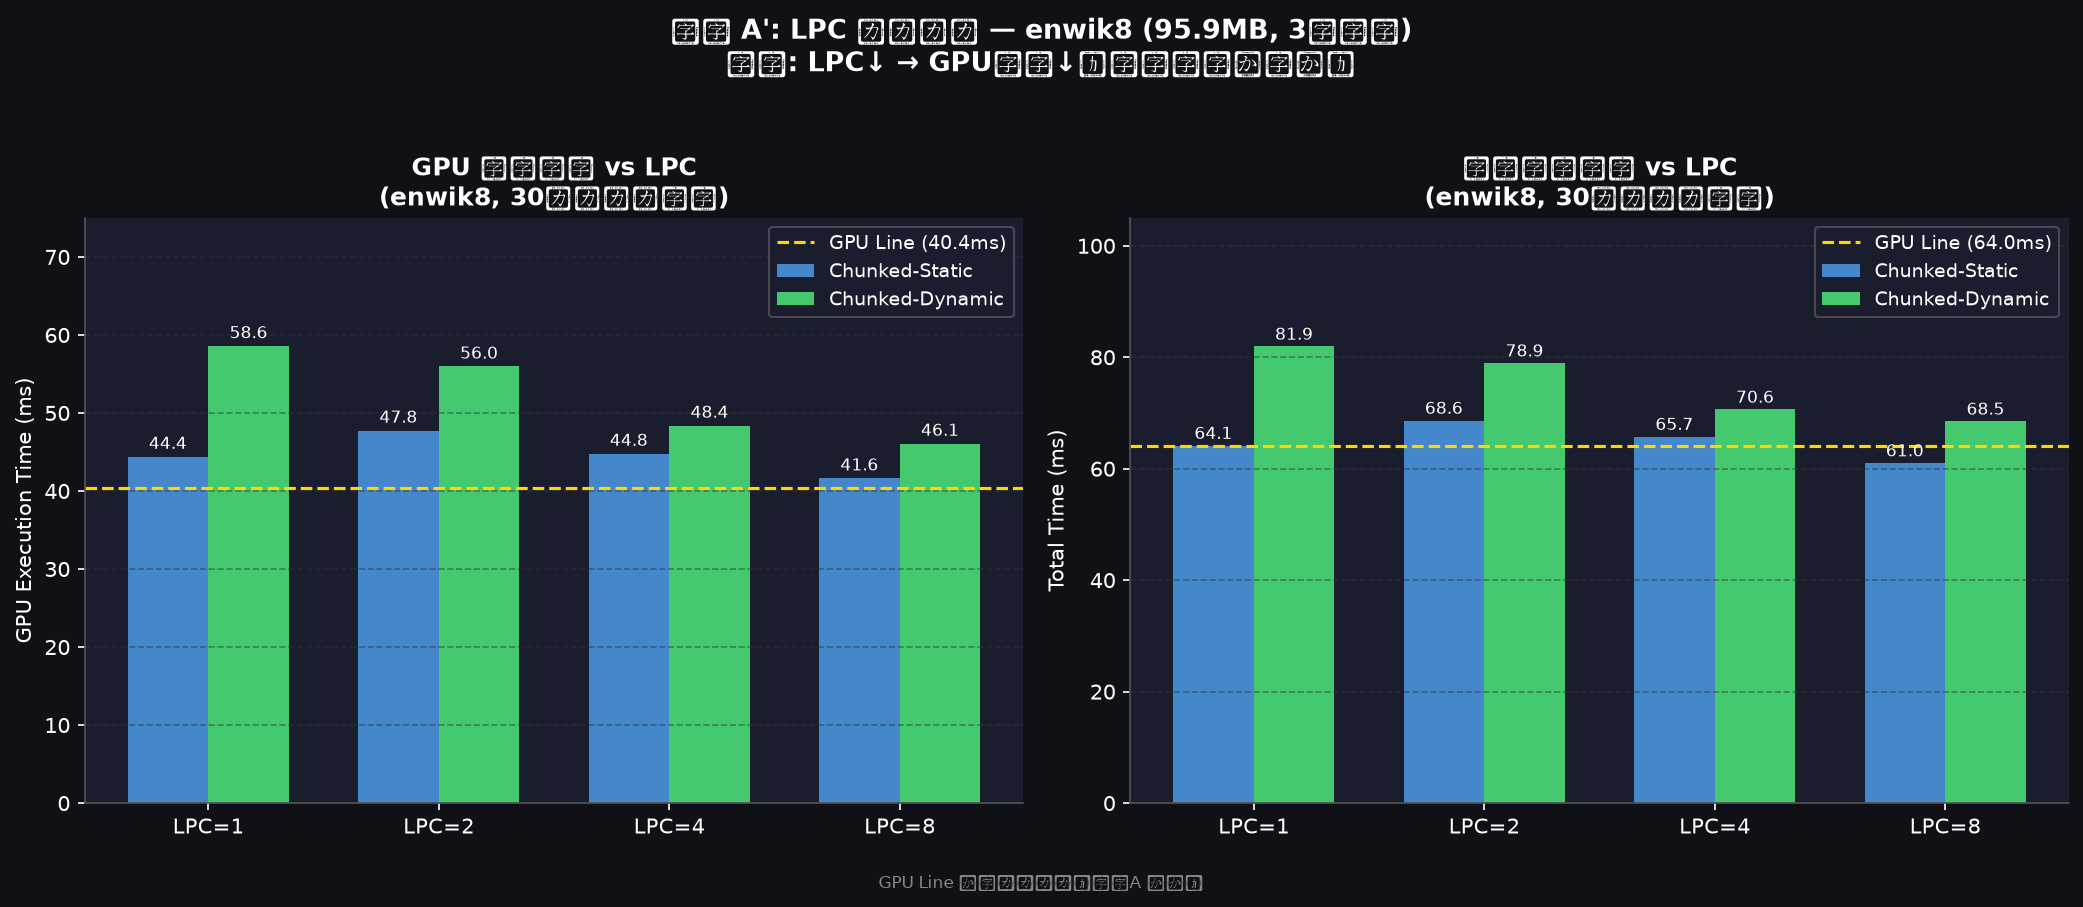
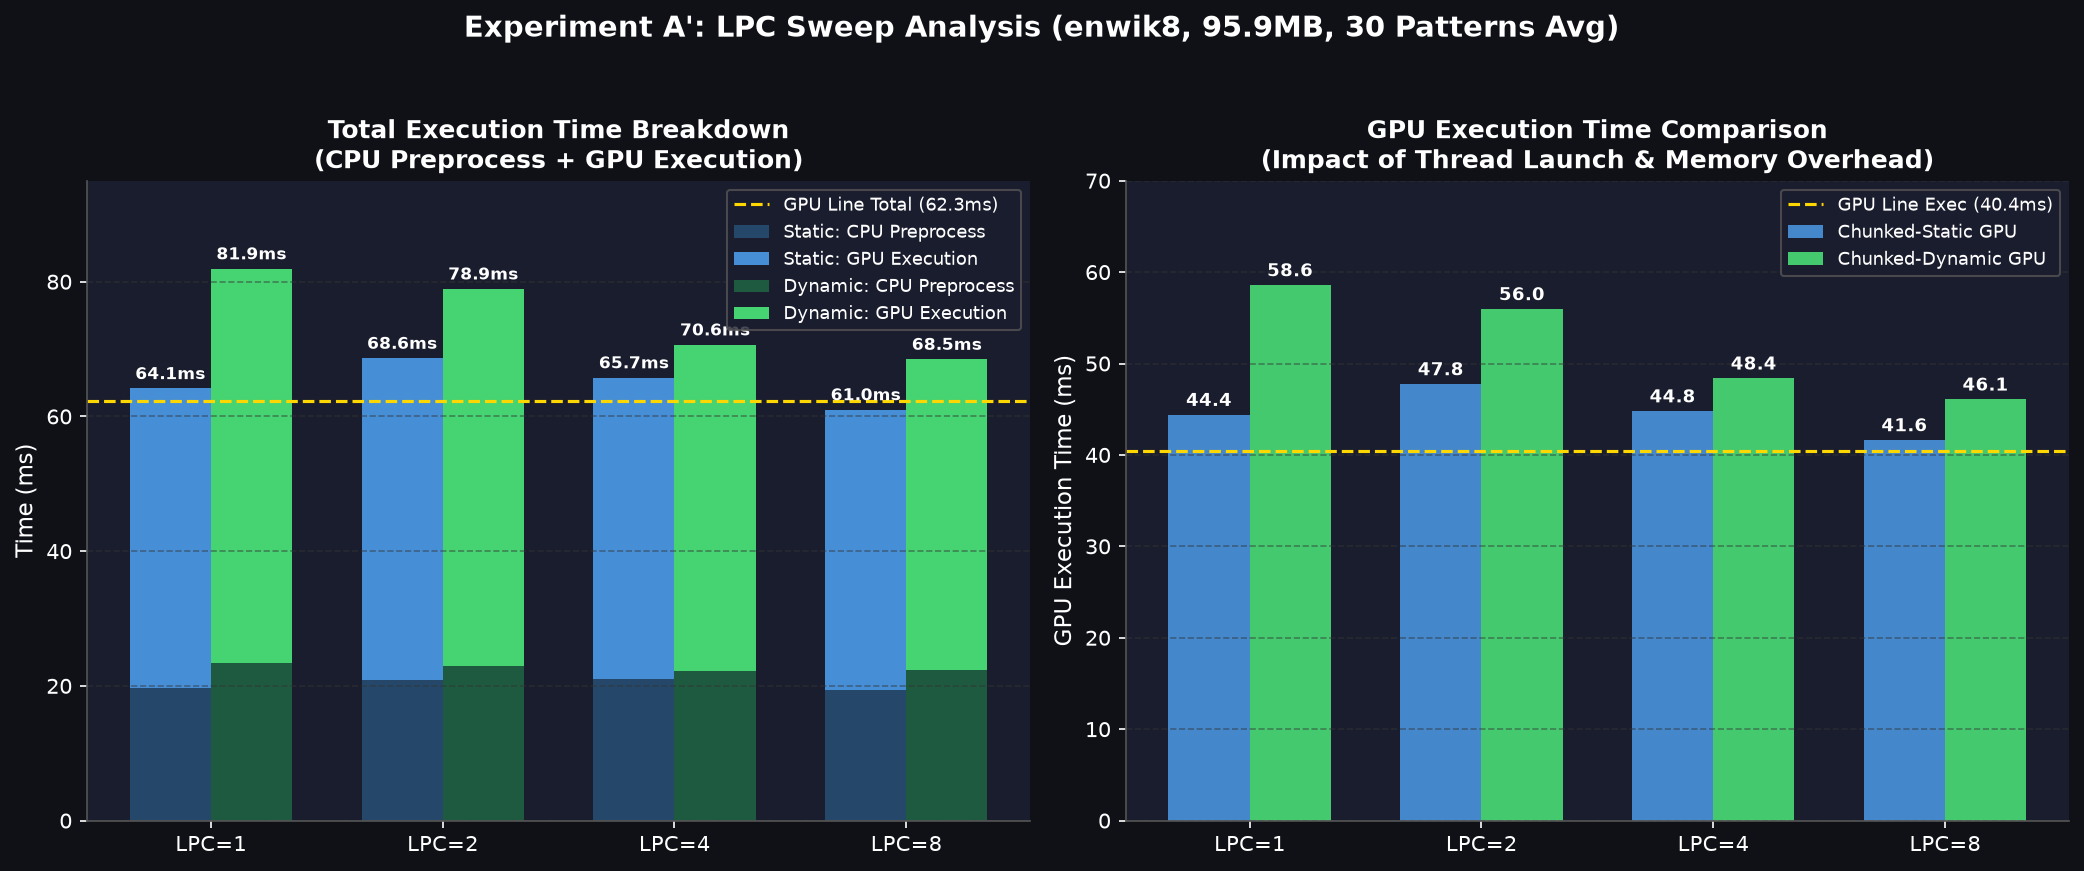
sprint(001): 実験A'グラフの英語化とCPU/GPU分け計測結果テーブルの明確化
- matplotlib の文字化け防止のためグラフ(fig_exp_a_prime.png)の文字表記を完全英語化
- result_expa.md および results.md の実験A'テーブルに Static Pre/GPU/Tot、Dynamic Pre/GPU/Tot の内訳列を明記

diff --git a/sprints/001/result_expa.md b/sprints/001/result_expa.md
@@ -61,15 +61,21 @@
 * **仮説**: 「1スレッドが直列に処理する行数（LPC）を小さく（1〜4）すれば、直列処理の損が減り、GPU 実行時間が短くなるのではないか？」
 * **目的**: LPC = 1, 2, 4, 8 における Static / Dynamic の挙動をコンテナ内環境で比較検証する。
 
-### 3.2 計測結果
+### 3.2 計測結果（CPU前処理 / GPU実行 / 合計 内訳）
 
-| LPC | Static CPU 前処理 | Static GPU 実行 | Static 合計 | Dynamic CPU 前処理 | Dynamic GPU 実行 | Dynamic 合計 |
-|---|---|---|---|---|---|---|
-| **1** | 19.75ms | 44.39ms | 64.15ms | 23.35ms | 58.58ms | 81.93ms |
-| **2** | 20.89ms | 47.75ms | 68.64ms | 22.98ms | 55.96ms | 78.94ms |
-| **4** | 20.96ms | 44.79ms | 65.75ms | 22.25ms | 48.38ms | 70.63ms |
-| **8** | **19.38ms** | **41.63ms** | **61.01ms** | 22.41ms | **46.08ms** | **68.49ms** |
-| *GPU Line (参考)* | *21.94ms* | *40.39ms* | *63.99ms* | — | — | — |
+LPC の値（1, 2, 4, 8）ごとに CPU 前処理時間 (Pre)、GPU 実行時間 (GPU)、合計時間 (Tot) をミリ秒単位で整理しました。
+
+| LPC | **Chunked-Static Pre (ms)** | **Chunked-Static GPU (ms)** | **Chunked-Static Tot (ms)** | **Chunked-Dynamic Pre (ms)** | **Chunked-Dynamic GPU (ms)** | **Chunked-Dynamic Tot (ms)** |
+|:---:|:---:|:---:|:---:|:---:|:---:|:---:|
+| **1** | 19.75 | 44.39 | 64.15 | 23.35 | 58.58 | 81.93 |
+| **2** | 20.89 | 47.75 | 68.64 | 22.98 | 55.96 | 78.94 |
+| **4** | 20.96 | 44.79 | 65.75 | 22.25 | 48.38 | 70.63 |
+| **8** | **19.38** | **41.63** | **61.01** | **22.41** | **46.08** | **68.49** |
+| *GPU Line (参考)* | *21.94* | *40.39* | *63.99* | — | — | — |
+
+> **ポイント**:
+> 1. **CPU 前処理**: どの LPC においても Static は約 19.4〜20.9ms、Dynamic は約 22.3〜23.4ms で安定（Dynamic の $O(n_{lines})$ スキャンコスト +3.0ms 差）。
+> 2. **GPU 実行**: Static, Dynamic ともに **LPC = 1 で最遅（Static: 44.4ms, Dynamic: 58.6ms）** であり、**LPC = 8 で最速（Static: 41.6ms, Dynamic: 46.1ms）** となる。
 
 ![fig_exp_a_prime](figures/fig_exp_a_prime.png)
 
@@ -77,18 +83,20 @@
 
 ### 3.3 実験 A' の詳細考察: なぜ仮説は棄却されたか？
 
-実測の結果、**LPC = 1 が最遅（44.4ms）であり、LPC = 8 が最速（41.6ms）** となり、仮説とは完全に逆の結果が得られました。
+実測の結果、**LPC = 1 が最遅であり、LPC = 8 が最速** となり、「直列処理を減らすため LPC を小さくすれば速くなる」という仮説は棄却されました。
 
-この要因は、GPU カーネルの **「固定オーバーヘッドの希釈（償却）効果」** にあります。
+CPU前処理とGPU実行時間それぞれにおいて以下の要因が働いています。
 
-#### ① スレッド/ワープ起動と管理の固定コスト (Launch Overhead)
-* 1つのスレッドが起動して終了するまでには、スレッド ID の計算、境界チェック、メタデータ（`d_chunk_line_start` 等）のロードなどの固定処理が発生します。
-* **LPC = 1 (83万スレッド)**: この固定コストが **83万回** 発生し、1行あたりの命令密度の低さに起因する無駄が膨らみます。
-* **LPC = 8 (10万スレッド)**: スレッド数が 1/8 に減るため、固定コストが **10万回** に激減します。一度起動したスレッドが 8 行まとめて実行するため、固定コストが 1/8 に希釈されます。
+#### ① CPU 前処理時間に対する LPC の影響
+* **Static (19.4〜20.9ms)**: チャンク数の差（831K個 → 104K個）によるオフセット配列サイズの差は軽微で、テキスト全体の `\n` スキャン時間（約 19ms）が支配的です。
+* **Dynamic (22.3〜23.4ms)**: 全行の文字数を順次加算する $O(n_{lines})$ ループが追加されるため、Static より一貫して約 **+3ms** 重くなります。
 
-#### ② メモリ帯域とキャッシュ効率 (Cache & Memory Traffic)
-* **LPC = 1**: 83万スレッドが VRAM（グローバルメモリ）へ一斉にアクセスするため、メモリバスのコンテンション（渋滞）が発生します。
-* **LPC = 8**: 1つのスレッドが同じレジスタや L1/L2 キャッシュ上の作業領域（`clist`, `nlist`, `visited`）を保持したまま 8 行分を連続ループ処理するため、メモリの再利用効率が高まります。
+#### ② GPU 実行時間に対する LPC の影響（固定コストの希釈効果）
+1. **スレッド/ワープ起動・管理の固定コスト (Launch Overhead)**:
+   - スレッドID計算・範囲チェック・境界ロード等の固定処理が、**LPC = 1（83万スレッド）では83万回** 発生します。
+   - **LPC = 8（10万スレッド）では10万回** に激減し、1つのスレッド起動コストに対して8行分処理するため、**オーバーヘッドの密度が 1/8 に希釈** されます。
+2. **VRAM 帯域とキャッシュ再利用効率 (Memory & Cache Traffic)**:
+   - LPC = 8 では、1つのスレッドが L1/L2 キャッシュやレジスタ領域（`clist`, `nlist`, `visited`）を維持したまま 8 行分を連続ループ処理するため、メモリ空間の再利用効率が高まります。
 
 ---
 

diff --git a/sprints/001/results.md b/sprints/001/results.md
@@ -430,15 +430,15 @@ Dynamic が「均等化」するのはその一部のチャンクだけで、大
 **実行スクリプト**: `sprints/001/run_exp_a_prime.sh`  
 **結果ディレクトリ**: `results/sprint001_exp_a_prime/`
 
-### 計測結果（30パターン平均・3回平均）
+### 計測結果（CPU前処理 / GPU実行 / 合計 内訳）
 
-| LPC | Static CPU前処理 | Static GPU実行 | Static 合計 | Dynamic CPU前処理 | Dynamic GPU実行 | Dynamic 合計 |
-|---|---|---|---|---|---|---|
-| 1 | 19.75ms | 44.39ms | 64.15ms | 23.35ms | 58.58ms | 81.93ms |
-| 2 | 20.89ms | 47.75ms | 68.64ms | 22.98ms | 55.96ms | 78.94ms |
-| 4 | 20.96ms | 44.79ms | 65.75ms | 22.25ms | 48.38ms | 70.63ms |
-| 8 | 19.38ms | **41.63ms** | **61.01ms** | 22.41ms | **46.08ms** | **68.49ms** |
-| GPU Line（参考） | 21.94ms | 40.39ms | 63.99ms | — | — | — |
+| LPC | Static Pre (ms) | Static GPU (ms) | Static Tot (ms) | Dynamic Pre (ms) | Dynamic GPU (ms) | Dynamic Tot (ms) |
+|:---:|:---:|:---:|:---:|:---:|:---:|:---:|
+| **1** | 19.75 | 44.39 | 64.15 | 23.35 | 58.58 | 81.93 |
+| **2** | 20.89 | 47.75 | 68.64 | 22.98 | 55.96 | 78.94 |
+| **4** | 20.96 | 44.79 | 65.75 | 22.25 | 48.38 | 70.63 |
+| **8** | **19.38** | **41.63** | **61.01** | **22.41** | **46.08** | **68.49** |
+| *GPU Line (参考)* | *21.94* | *40.39* | *63.99* | — | — | — |
 
 **図: LPC スイープ — GPU 実行時間 & 合計時間**
 
